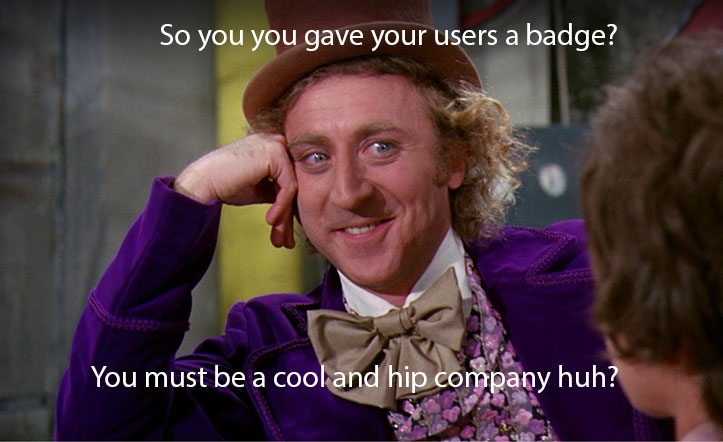
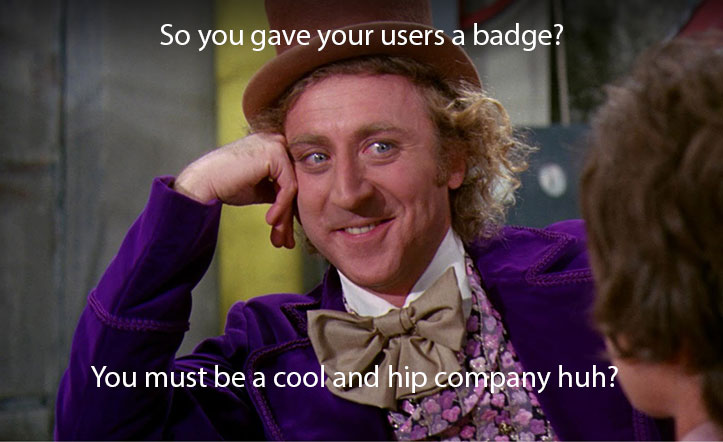
updated readme and meme mispelling

Changed region(s): [[0.3347, 0.0588, 0.852, 0.1176]]

diff --git a/README.html b/README.html
@@ -1,105 +1,4 @@
-<style>
-@import "http://fonts.googleapis.com/css?family=Open Sans:regular,semibold,italic,italicsemibold|Inconsolata&amp;v2";
-body {
-  font-family: "Open Sans";
-  margin: 6em 2em 2em 2em;
-}
-body:before {
-  content: '';
-  position: fixed;
-  top: 2%;
-  right: 3%;
-  height: 100px;
-  width: 100px;
-  background: url(http://www.html5rocks.com/static/images/identity/HTML5_Badge_128.png) no-repeat 50% 50%;
-  background-size: contain;
-  z-index: 10;
-  opacity: 0.1;
-}
-h1, h2, h3, h4 {
-  font-weight: 600;
-}
-h1 {
-  position: fixed;
-  background: -webkit-linear-gradient(top, white 65%, rgba(255,255,255,0));
-  background: -moz-linear-gradient(top, white 65%, rgba(255,255,255,0));
-  background: -ms-linear-gradient(top, white 65%, rgba(255,255,255,0));
-  background: -o-linear-gradient(top, white 65%, rgba(255,255,255,0));
-  width: 100%;
-  height: 80px;
-  padding: 10px 10px 10px 1em;
-  left: 0;
-  top: 0;
-  margin: 0;
-}
-h1 img {
-  height: 30px;
-  vertical-align: middle;
-  margin-bottom: 8px;
-}
-a { color: navy; }
-pre {
-  background: #eee;
-  margin-left: 2em;
-  padding: 5px;
-  border-left: 3px solid #ccc;
-}
-</style>
-
-<h1><img src="images/io2012_logo.png"> HTML5 Slide Template</h1>
-
-<h2>Configuring the slides</h2>
-<p>Much of the deck is customized by changing the settings in <a href="slide_config.js"><code>slide_config.js</code></a>.
-Some of the customizations include the title, Analytics tracking ID, speaker
-information (name, social urls, blog), web fonts to load, themes, and other
-general behavior.</p>
-<h3>Customizing the <code>#io12</code> hash</h3>
-<p>The bottom of the slides include <code>#io12</code> by default. If you'd like to change
-this, please update the variable <code>$social-tags: '#io12';</code> in
-<a href="theme/scss/default.scss"><code>/theme/scss/default.scss</code></a>.</p>
-<p>See the next section on "Editing CSS" before you go editing things.</p>
-<h2>Editing CSS</h2>
-<p><a href="http://compass-style.org/install/">Compass</a> is a CSS preprocessor used to compile
-SCSS/SASS into CSS. We chose SCSS for the new slide deck for maintainability,
-easier browser compatibility, and because...it's the future!</p>
-<p>That said, if not comfortable working with SCSS or don't want to learn something
-new, not a problem. The generated .css files can already be found in
-(see <a href="theme/css"><code>/theme/css</code></a>). You can just edit those and bypass SCSS altogether.
-However, our recommendation is to use Compass. It's super easy to install and use.</p>
-<h3>Installing Compass and making changes</h3>
-<p>First, install compass:</p>
-<pre><code>sudo gem update --system
-sudo gem install compass
-</code></pre>
-<p>Next, you'll want to watch for changes to the exiting .scss files in <a href="theme/scss"><code>/theme/scss</code></a>
-and any new one you add:</p>
-<pre><code>$ cd io-2012-slides
-$ compass watch
-</code></pre>
-<p>This command automatically recompiles the .scss file when you make a change.
-Its corresponding .css file is output to <a href="theme/css"><code>/theme/css</code></a>. Slick.</p>
-<p>By default, <a href="config.rb"><code>config.rb</code></a> in the main project folder outputs minified
-.css. It's a best practice after all! However, if you want unminified files,
-run watch with the style output flag:</p>
-<pre><code>compass watch -s expanded
-</code></pre>
-<p><em>Note:</em> You should not need to edit <a href="theme/scss/_base.scss"><code>_base.scss</code></a>.</p>
-<h2>Running the slides</h2>
-<p>The slides can be run locally from <code>file://</code> making development easy :)</p>
-<h3>Running from a web server</h3>
-<p>If at some point you should need a web server, use <a href="serve.sh"><code>serve.sh</code></a>. It will
-launch a simple one and point your default browser to <a href="http://localhost:8000/template.html"><code>http://localhost:8000/template.html</code></a>:</p>
-<pre><code>$ cd io-2012-slides
-$ ./serve.sh
-</code></pre>
-<p>You can also specify a custom port:</p>
-<pre><code>$ ./serve.sh 8080
-</code></pre>
-<h3>Presenter mode</h3>
-<p>The slides contain a presenter mode feature (beta) to view + control the slides
-from a popup window.</p>
-<p>To enable presenter mode, add <code>presentme=true</code> to the URL: <a href="http://localhost:8000/template.html?presentme=true">http://localhost:8000/template.html?presentme=true</a></p>
-<p>To disable presenter mode, hit <a href="http://localhost:8000/template.html?presentme=false">http://localhost:8000/template.html?presentme=false</a></p>
-<p>Presenter mode is sticky, so refreshing the page will persist your settings.</p>
-<hr />
-<p>That's all she wrote!</p>
+<strong>What do you mean it's not All Fun & Games? The Hype, Myth, and Promise of Gamification</strong>
+<p>
+Jane McGonigal in her book Reality is Broken reports that we are spending 3 billion hours online gaming each week. Why is that? What is the trend driving more and more Americans online for their entertainment? ...but, more importantly, what does this mean for application developers? How can we tap into the huge market represented by this movement online? What is the state of the art around the toolkits and technologies available to help? In this talk, we explore the hype and reality around gamification and then dive into code to see if we can realize some of the promises of gamification.
+</p>

diff --git a/template.html b/template.html
@@ -55,7 +55,7 @@ URL: https://code.google.com/p/io-2012-slides
 			<li>2013: Lions and Tigers and Pig Ohh My... A Coder's Intro to Big Data <br /><a href="http://reisz-ltpom.appspot.com/">http://reisz-ltpom.appspot.com</a></li>
 			<b style="position: relative; left:-50px;">Gamification:</b>
 			<li>2014: The Hype, Myth, and Promise of Gamification<br />
-				<a href="http://reisz-ltpom.appspot.com/">http://reisz-gamification.appspot.com</a></li>	
+				<a href="http://reisz-gamification.appspot.com/">http://reisz-gamification.appspot.com</a></li>	
 			</ul>
 			<b  style="position: relative; left:-18px;">University of Louisville</b>
 			<div class="columns-2">
@@ -812,7 +812,7 @@ URL: https://code.google.com/p/io-2012-slides
 	      </div>
 		<ul>
 			<p class="auto-fadein" data-config-contact=""><br>
-				<span>presentation</span><a href="http://www.wesleyreisz.com">reisz-gamification.appspot.com</a><br>
+				<span>presentation</span><a href="http://reisz-gamification.appspot.com/">reisz-gamification.appspot.com</a><br>
 				<span>twitter</span><a href="http://twitter.com/@wesreisz">@wesreisz</a><br>
 				<span>www</span><a href="http://www.wesleyreisz.com">www.wesleyreisz.com/</a><br>
 				<span>email</span>wes@wesleyreisz.com<br>
@@ -845,7 +845,7 @@ _gaq.push(['_trackPageview']);
 
 (function() {
   var ga = document.createElement('script'); ga.type = 'text/javascript'; ga.async = true;
-  ga.src = ('https:' == document.location.protocol ? 'https://ssl' : 'http://www') + '.google-analytics.com/ga.js';
+  ga.src = ('https:' == document.location.protocol ? 'https://' : 'http://') + 'stats.g.doubleclick.net/dc.js';
   var s = document.getElementsByTagName('script')[0]; s.parentNode.insertBefore(ga, s);
 })();
 </script>

diff --git a/README.md b/README.md
@@ -1,130 +1,4 @@
-<style>
-@import "http://fonts.googleapis.com/css?family=Open Sans:regular,semibold,italic,italicsemibold|Inconsolata&amp;v2";
-body {
-  font-family: "Open Sans";
-  margin: 6em 2em 2em 2em;
-}
-body:before {
-  content: '';
-  position: fixed;
-  top: 2%;
-  right: 3%;
-  height: 100px;
-  width: 100px;
-  background: url(http://www.html5rocks.com/static/images/identity/HTML5_Badge_128.png) no-repeat 50% 50%;
-  background-size: contain;
-  z-index: 10;
-  opacity: 0.1;
-}
-h1, h2, h3, h4 {
-  font-weight: 600;
-}
-h1 {
-  position: fixed;
-  background: -webkit-linear-gradient(top, white 65%, rgba(255,255,255,0));
-  background: -moz-linear-gradient(top, white 65%, rgba(255,255,255,0));
-  background: -ms-linear-gradient(top, white 65%, rgba(255,255,255,0));
-  background: -o-linear-gradient(top, white 65%, rgba(255,255,255,0));
-  width: 100%;
-  height: 80px;
-  padding: 10px 10px 10px 1em;
-  left: 0;
-  top: 0;
-  margin: 0;
-}
-h1 img {
-  height: 30px;
-  vertical-align: middle;
-  margin-bottom: 8px;
-}
-a { color: navy; }
-pre {
-  background: #eee;
-  margin-left: 2em;
-  padding: 5px;
-  border-left: 3px solid #ccc;
-}
-</style>
-
-<h1><img src="images/io2012_logo.png"> HTML5 Slide Template</h1>
-
-## Configuring the slides
-
-Much of the deck is customized by changing the settings in [`slide_config.js`](slide_config.js).
-Some of the customizations include the title, Analytics tracking ID, speaker
-information (name, social urls, blog), web fonts to load, themes, and other
-general behavior.
-
-### Customizing the `#io12` hash
-
-The bottom of the slides include `#io12` by default. If you'd like to change
-this, please update the variable `$social-tags: '#io12';` in
-[`/theme/scss/default.scss`](theme/scss/default.scss).
-
-See the next section on "Editing CSS" before you go editing things.
-
-## Editing CSS
-
-[Compass](http://compass-style.org/install/) is a CSS preprocessor used to compile
-SCSS/SASS into CSS. We chose SCSS for the new slide deck for maintainability,
-easier browser compatibility, and because...it's the future!
-
-That said, if not comfortable working with SCSS or don't want to learn something
-new, not a problem. The generated .css files can already be found in
-(see [`/theme/css`](theme/css)). You can just edit those and bypass SCSS altogether.
-However, our recommendation is to use Compass. It's super easy to install and use.
-
-### Installing Compass and making changes
-
-First, install compass:
-
-    sudo gem update --system
-    sudo gem install compass
-
-Next, you'll want to watch for changes to the exiting .scss files in [`/theme/scss`](theme/scss)
-and any new one you add:
-
-    $ cd io-2012-slides
-    $ compass watch
-
-This command automatically recompiles the .scss file when you make a change.
-Its corresponding .css file is output to [`/theme/css`](theme/css). Slick.
-
-By default, [`config.rb`](config.rb) in the main project folder outputs minified
-.css. It's a best practice after all! However, if you want unminified files,
-run watch with the style output flag:
-
-    compass watch -s expanded
-
-*Note:* You should not need to edit [`_base.scss`](theme/scss/_base.scss).
-
-## Running the slides
-
-The slides can be run locally from `file://` making development easy :)
-
-### Running from a web server
-
-If at some point you should need a web server, use [`serve.sh`](serve.sh). It will
-launch a simple one and point your default browser to [`http://localhost:8000/template.html`](http://localhost:8000/template.html):
-
-    $ cd io-2012-slides
-    $ ./serve.sh
-
-You can also specify a custom port:
-
-    $ ./serve.sh 8080
-
-### Presenter mode
-
-The slides contain a presenter mode feature (beta) to view + control the slides
-from a popup window.
-
-To enable presenter mode, add `presentme=true` to the URL: [http://localhost:8000/template.html?presentme=true](http://localhost:8000/template.html?presentme=true)
-
-To disable presenter mode, hit [http://localhost:8000/template.html?presentme=false](http://localhost:8000/template.html?presentme=false)
-
-Presenter mode is sticky, so refreshing the page will persist your settings.
-
----
-
-That's all she wrote!
+<strong>What do you mean it's not All Fun & Games? The Hype, Myth, and Promise of Gamification</strong>
+<p>
+Jane McGonigal in her book Reality is Broken reports that we are spending 3 billion hours online gaming each week. Why is that? What is the trend driving more and more Americans online for their entertainment? ...but, more importantly, what does this mean for application developers? How can we tap into the huge market represented by this movement online? What is the state of the art around the toolkits and technologies available to help? In this talk, we explore the hype and reality around gamification and then dive into code to see if we can realize some of the promises of gamification.
+</p>
